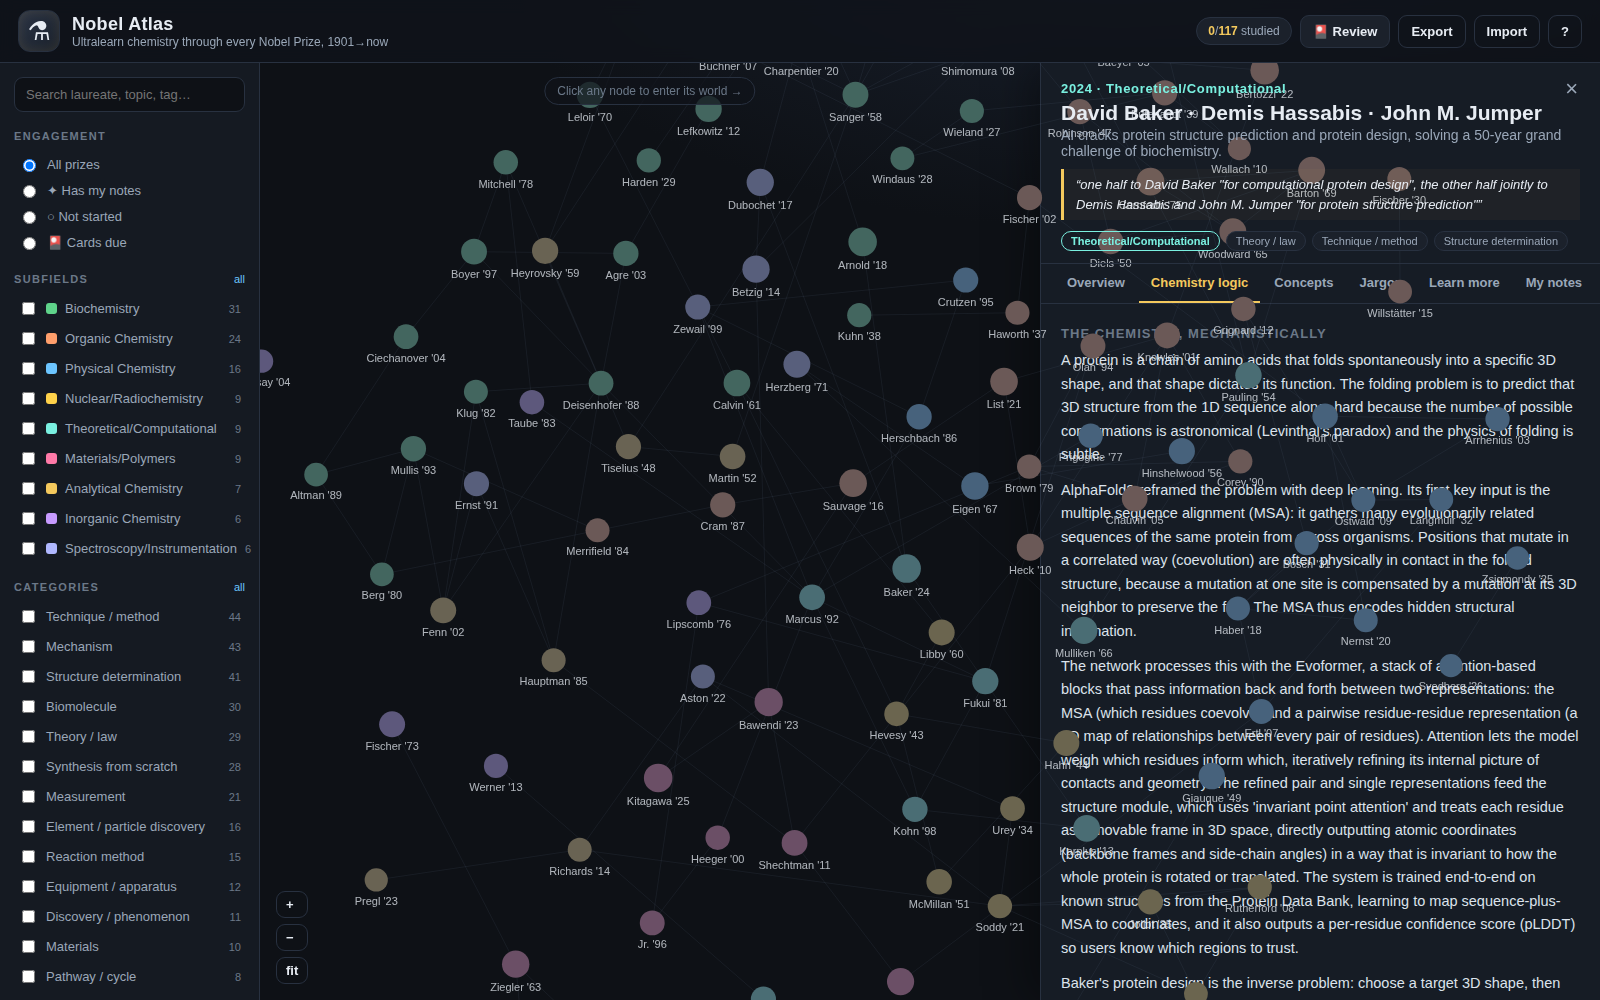
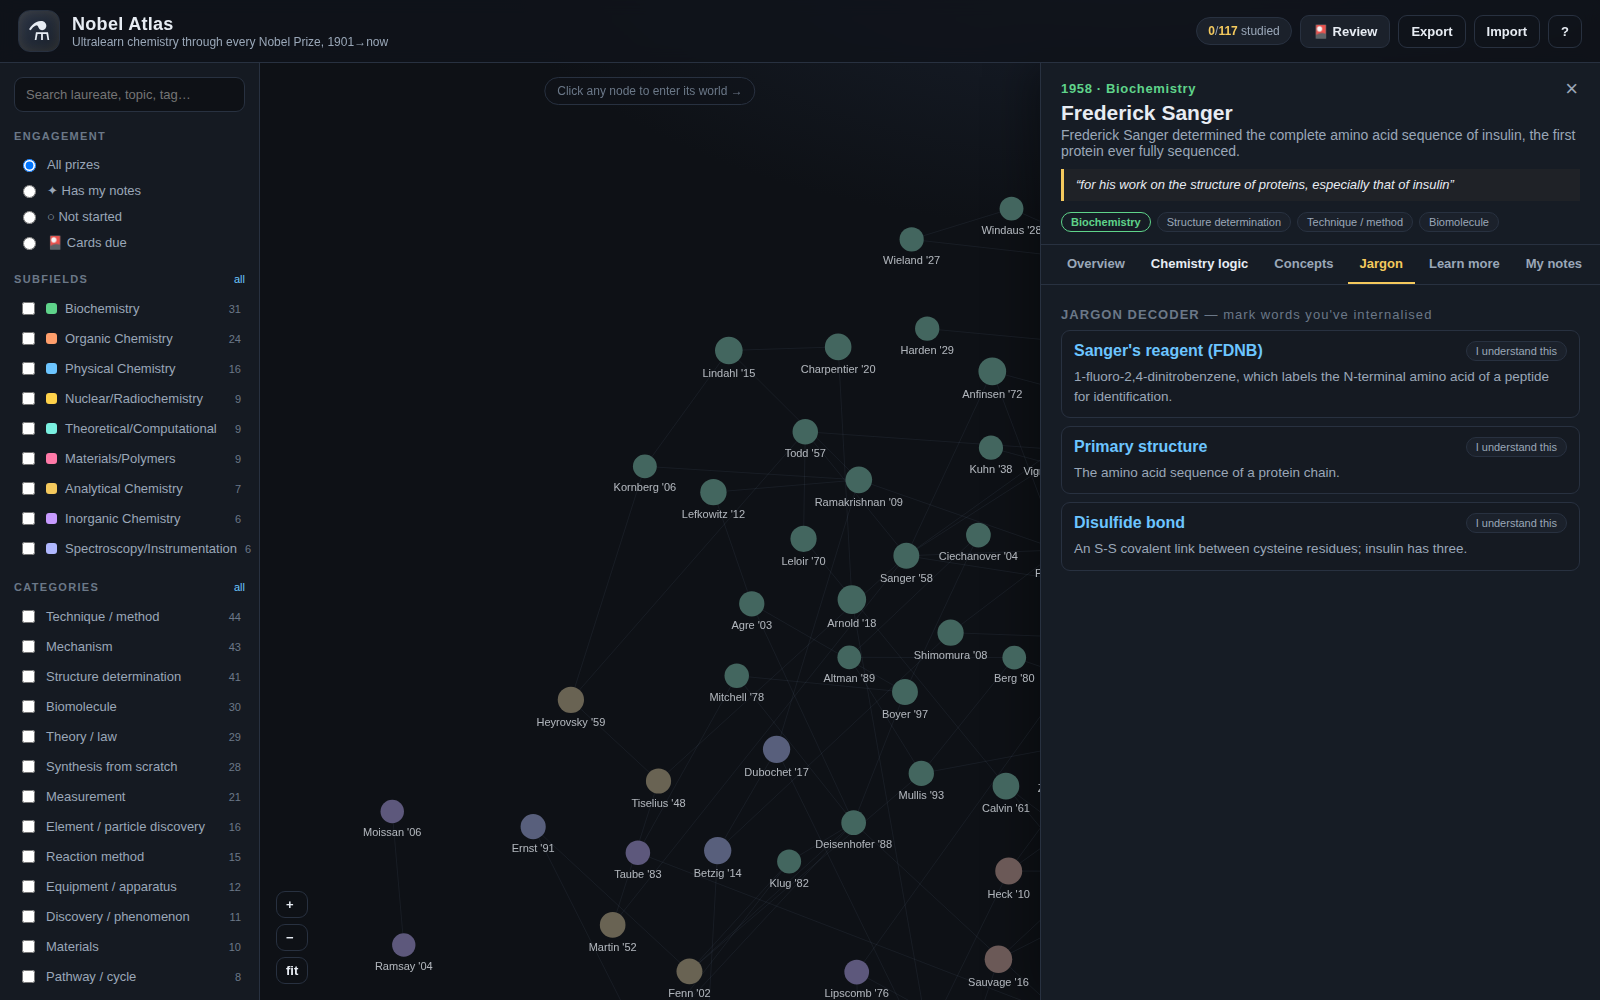
Fix unclickable detail tabs: resize canvas when drawer opens (ResizeObserver)

diff --git a/nobel-atlas.html b/nobel-atlas.html
@@ -10220,6 +10220,13 @@ window.NOBEL_DATA = [
       this._bindEvents();
       this._resize();
       window.addEventListener("resize", () => this._resize());
+      // Recompute canvas size whenever the graph container changes (e.g. the
+      // detail drawer opening shrinks this area). Without this the canvas keeps
+      // its old width and overflows on top of the drawer, eating clicks.
+      if (window.ResizeObserver) {
+        this._ro = new ResizeObserver(() => this._resize());
+        this._ro.observe(canvas.parentElement);
+      }
       this._loop = this._loop.bind(this);
       requestAnimationFrame(this._loop);
     }

diff --git a/src/graph.js b/src/graph.js
@@ -30,6 +30,13 @@
       this._bindEvents();
       this._resize();
       window.addEventListener("resize", () => this._resize());
+      // Recompute canvas size whenever the graph container changes (e.g. the
+      // detail drawer opening shrinks this area). Without this the canvas keeps
+      // its old width and overflows on top of the drawer, eating clicks.
+      if (window.ResizeObserver) {
+        this._ro = new ResizeObserver(() => this._resize());
+        this._ro.observe(canvas.parentElement);
+      }
       this._loop = this._loop.bind(this);
       requestAnimationFrame(this._loop);
     }
